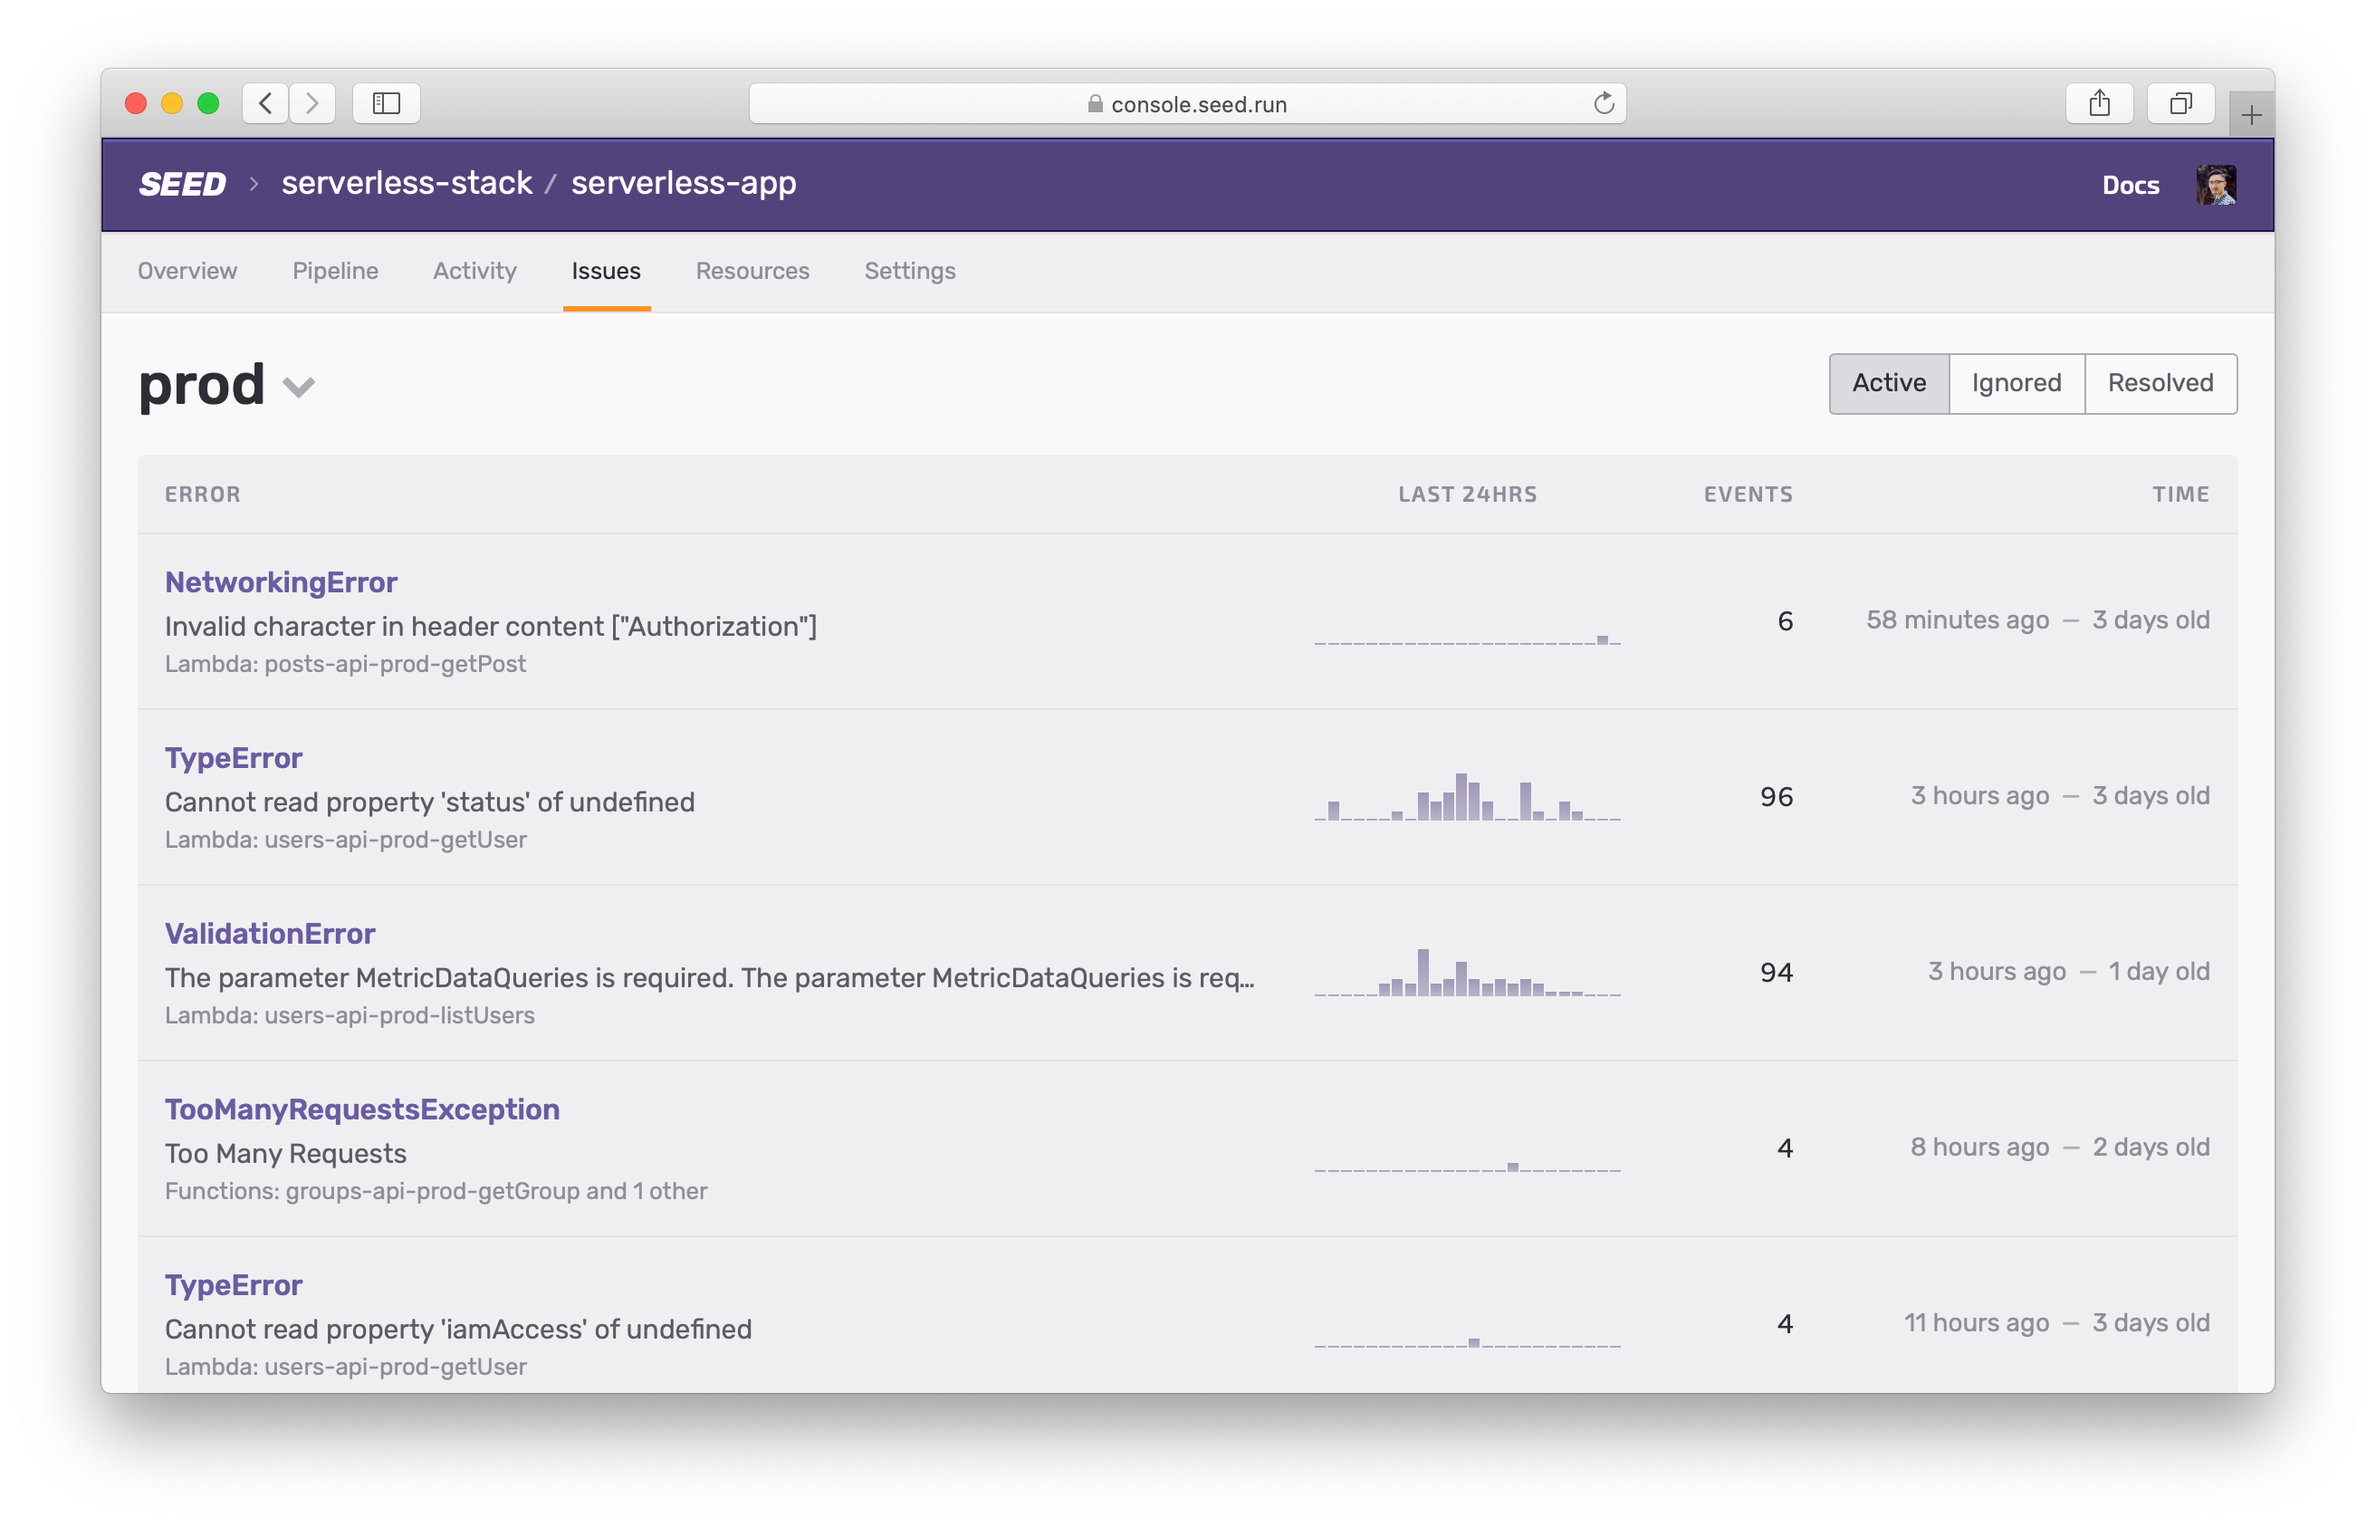
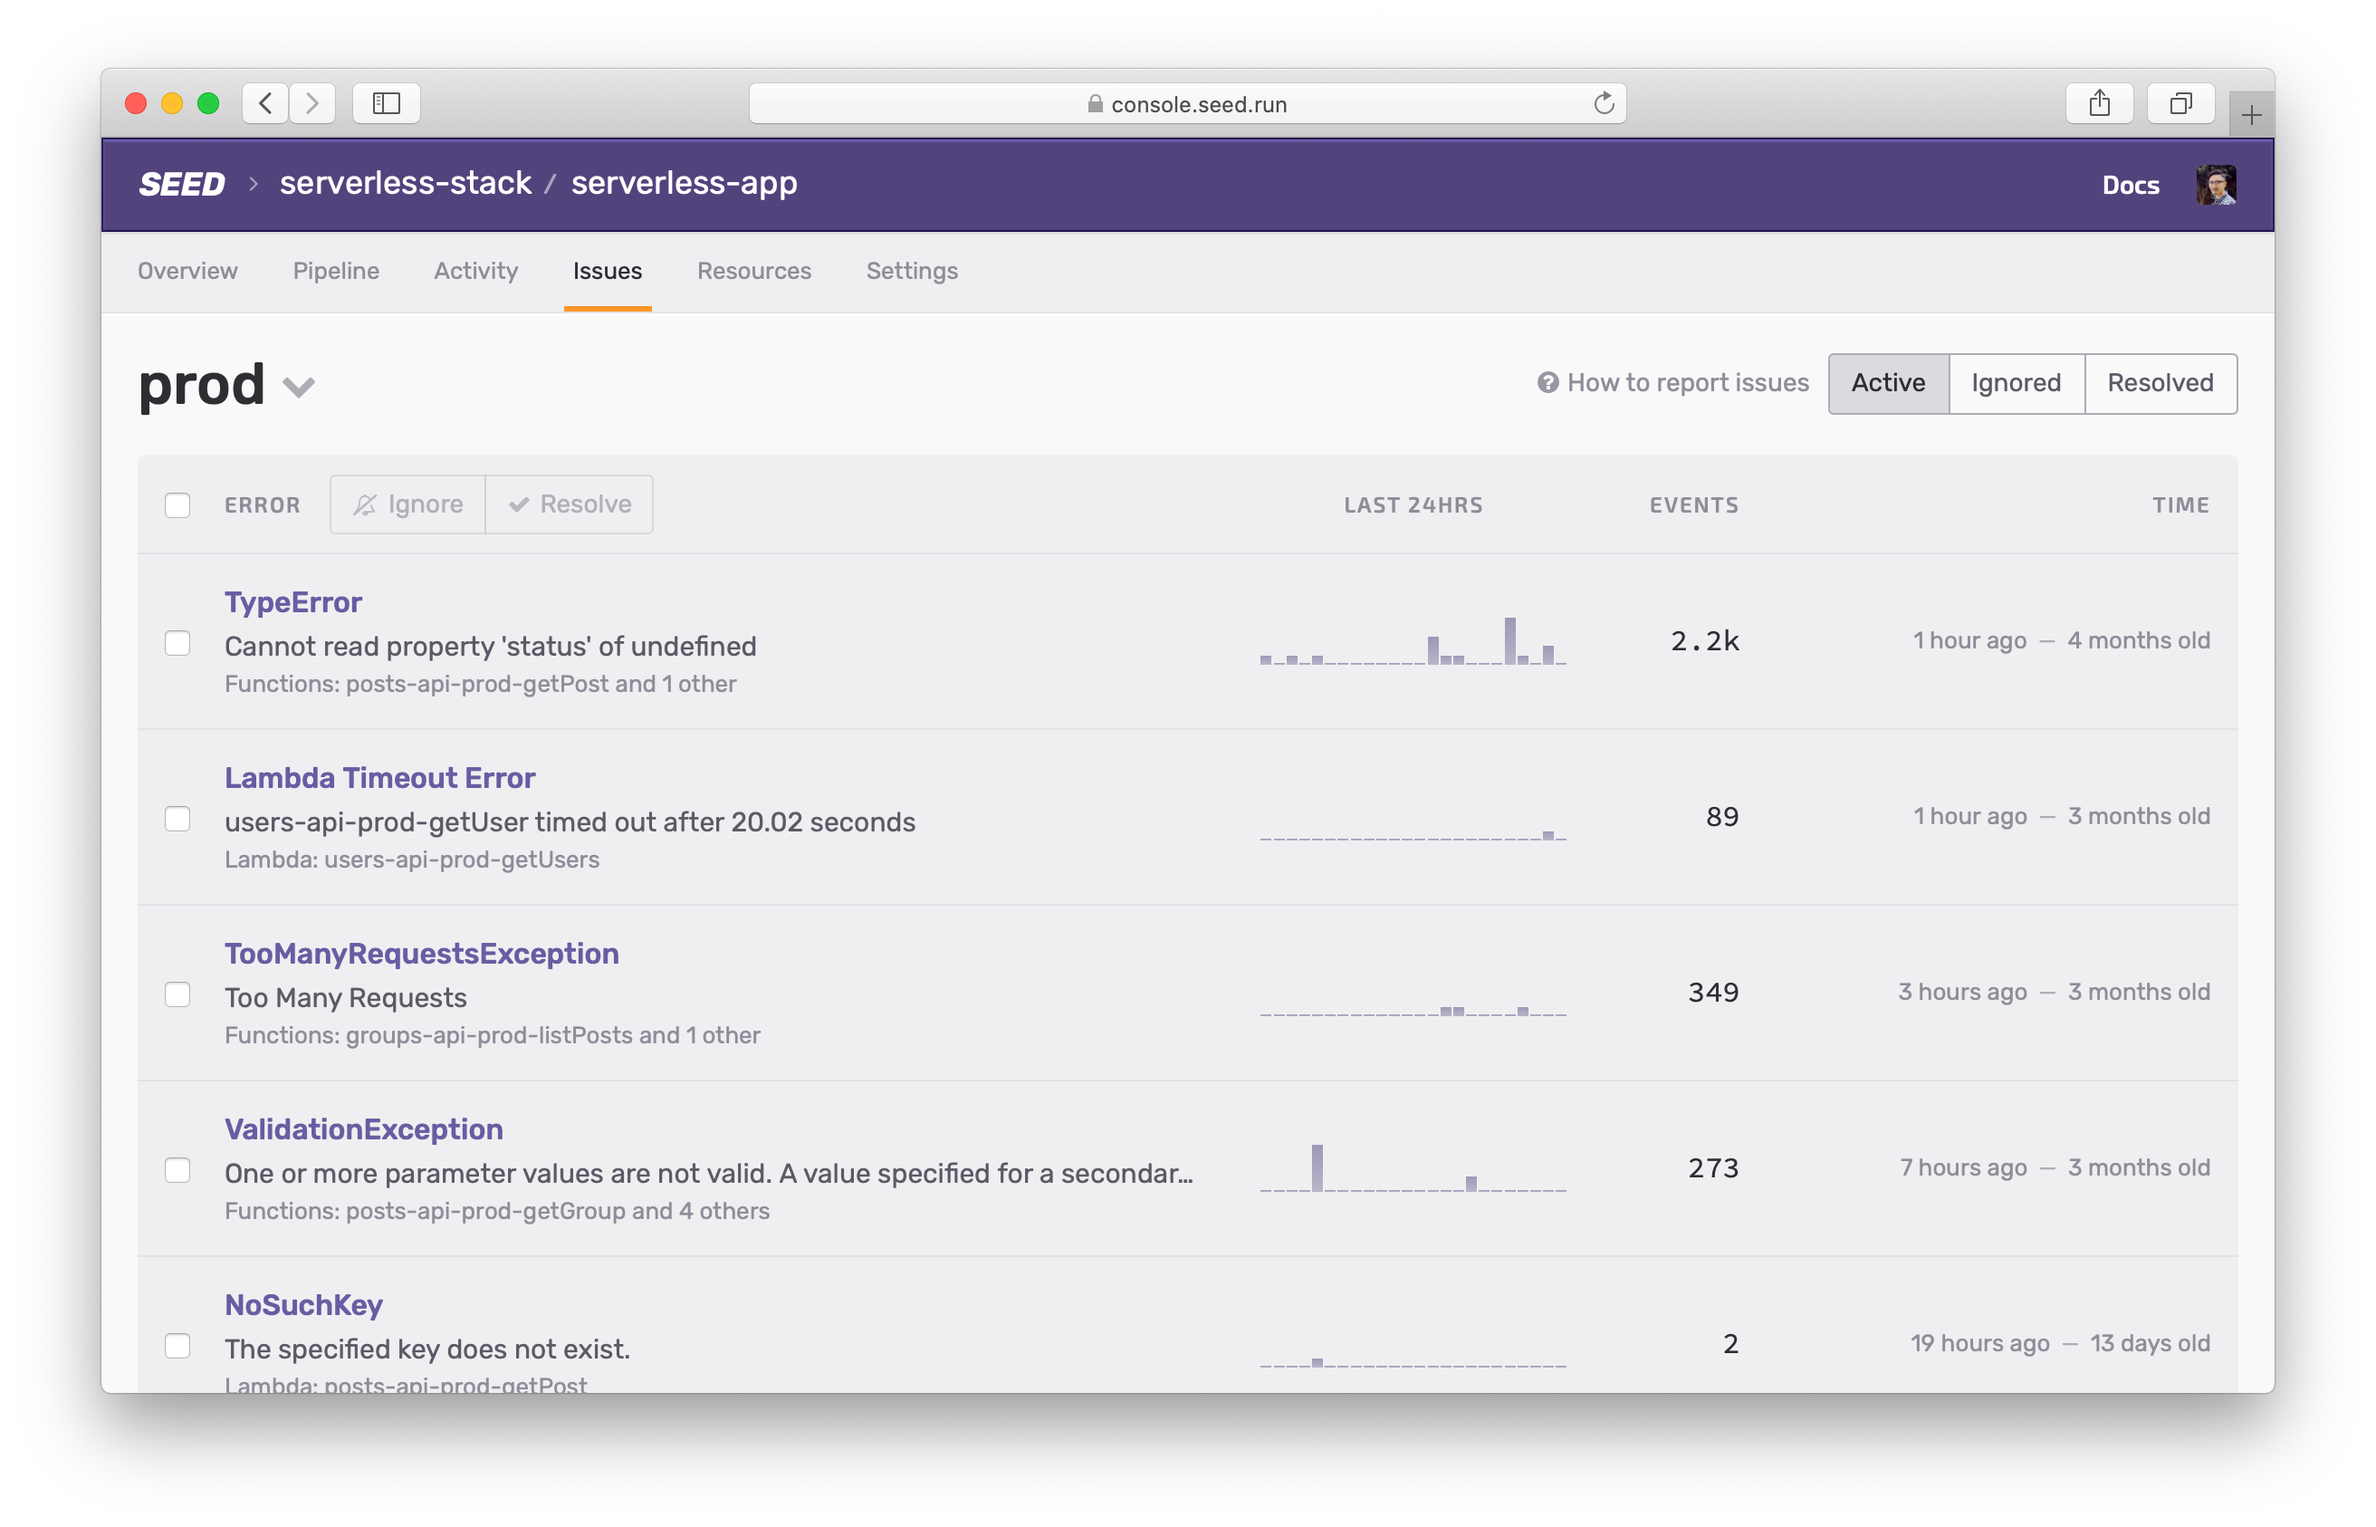
Adding post for build image and issues update

diff --git a/_docs/seed-build-images.md b/_docs/seed-build-images.md
@@ -18,8 +18,17 @@ Seed runs your builds inside a virtual machine and it'll use a build image based
 - [Python 3.7](#python-37)
 - [.NET Core 2.1](#net-core-21)
 
+## Changing the Build Image
 
-To check which build image is being used, head over to the build logs for your build.
+By default, Seed will automatically select a build image for your service based on the runtime you have set in your `serverless.yml`. However, Seed will not automatically update this when your runtime is updated. This is done to ensure that any scripts in your [build spec]({% link _docs/adding-a-build-spec.md %}) are not affected by the build image change.
+
+If you want to update the build image that a service in your app is using, head over to the service's settings.
+
+![Build image option in service settings](/assets/docs/seed-build-images/build-image-option-in-service-settings.png)
+
+Note that, if a service has not been deployed yet, Seed will not have picked a build image.
+
+You can also check which image was used for a specific build, by heading over to the logs for that build.
 
 ![Build image info in build logs](/assets/docs/seed-build-images/build-image-info-in-build-logs.png)
 
@@ -196,7 +205,3 @@ OS: Debian 9
 | .NET Core | 2.1     |
 | NPM       | 6.1.0   |
 | YARN      | 1.12.3  |
-
-## Changing the Build Image
-
-Once your service has been successfully deployed, Seed does not change the build image. If you want to use a different build image for a service, you'll need to [contact us](mailto:{{ site.email }}). In the future we'll be making this option configurable.

diff --git a/_posts/2020-09-21-updating-the-build-image-your-service-uses.md b/_posts/2020-09-21-updating-the-build-image-your-service-uses.md
@@ -1,0 +1,17 @@
+---
+layout: post
+title: Updating the build image your service uses
+categories: news
+author: jack
+tweet: 
+---
+
+We rolled out an update to the [Seed console]({{ site.console_url }}) to allow you to change the build image that your Serverless services use.
+
+![Build image options in Seed service settings](/assets/blog/updating-the-build-image-your-service-uses/build-image-options-in-seed-service-settings.png)
+
+Seed will automatically select the appropriate build image for your Serverless service. It does this based on the runtime of your service. You can check out the build images that we use here — [Seed Build Images]({% link _docs/seed-build-images.md %})
+
+However, Seed will not update the build image if you were to change the runtime of the service. This is because we don't want to affect any scripts that you might've been running.
+
+To fix this, Seed now gives you the option to update the build image that your service is currently using. You can find this in the service's settings. [Read more about this setting over on our docs]({% link _docs/seed-build-images.md %}#changing-the-build-image).

diff --git a/_posts/2020-09-21-update-multiple-issues-in-one-click.md b/_posts/2020-09-21-update-multiple-issues-in-one-click.md
@@ -1,0 +1,17 @@
+---
+layout: post
+title: Update multiple issues in one click
+categories: news
+author: frank
+tweet: 
+---
+
+You can now select multiple issues to resolve or ignore in the Seed console. You won't have to click through to each issue to do so.
+
+![Ignore or resolve multiple issues in Seed](/assets/blog/updating-multiple-issues-in-one-click/ignore-or-resolve-multiple-issues-in-seed.png)
+
+[Issues in Seed]({% link _posts/2020-07-01-real-time-lambda-monitoring-in-seed.md %}), allows you to monitor your Lambda functions in real-time. And it's completely free! It is also [completely native]({% link _docs/native-error-reporting.md %})! So you can simply `console.error` to report new issues.
+
+However, it also means that sometimes you might end up reporting some issues by mistake. To clear out these issues from your feed, you can now select multiple issues. And ignore (or resolve) them in one go!
+
+So give real-time Lambda monitoring in Seed a try, and let us know what you think.
